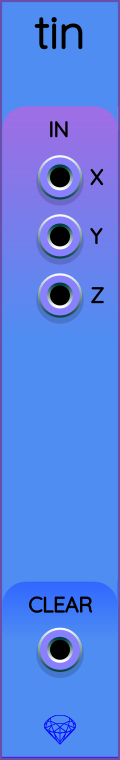
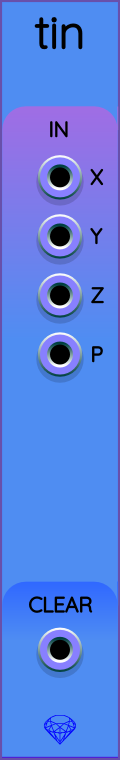
Fixed #33 - Tin: add polyphonic input port
Another step in the 3D Manifesto: provide a polyphonic input
to feed vectors into Tin as a 3-channel (x, y, z) signal.
The individual X, Y, and Z ports still exist and function.
If both kinds of inputs are present, they are added:

    X + P[0]
    Y + P[1]
    Z + P[2]

Changed region(s): [[0.3, 0.4237, 0.7, 0.5145], [0.75, 0.4539, 0.85, 0.4842]]

diff --git a/src/tin.cpp b/src/tin.cpp
@@ -20,6 +20,7 @@ namespace Sapphire
             Y_INPUT,
             Z_INPUT,
             CLEAR_TRIGGER_INPUT,
+            POLY_INPUT,
 
             INPUTS_LEN
         };
@@ -46,6 +47,7 @@ namespace Sapphire
                 configInput(X_INPUT, "X");
                 configInput(Y_INPUT, "Y");
                 configInput(Z_INPUT, "Z");
+                configInput(POLY_INPUT, "Polyphonic (X, Y, Z)");
                 configInput(CLEAR_TRIGGER_INPUT, "Clear display trigger");
                 initialize();
             }
@@ -63,9 +65,19 @@ namespace Sapphire
 
             void process(const ProcessArgs& args) override
             {
+                // We allow input from the monophonic X, Y, and Z inputs.
+                // We also allow input from the polyphonic P input.
+                // To make either/both work, add voltages together.
+
                 float x = inputs[X_INPUT].getVoltageSum();
                 float y = inputs[Y_INPUT].getVoltageSum();
                 float z = inputs[Z_INPUT].getVoltageSum();
+
+                int nc = inputs[POLY_INPUT].channels;
+                if (0 < nc) x += inputs[POLY_INPUT].getVoltage(0);
+                if (1 < nc) y += inputs[POLY_INPUT].getVoltage(1);
+                if (2 < nc) z += inputs[POLY_INPUT].getVoltage(2);
+
                 bool reset = resetTrigger.updateTrigger(inputs[CLEAR_TRIGGER_INPUT].getVoltageSum());
                 communicator.sendVector(x, y, z, reset);
             }
@@ -92,6 +104,7 @@ namespace Sapphire
                 addSapphireInput(X_INPUT, "x_input");
                 addSapphireInput(Y_INPUT, "y_input");
                 addSapphireInput(Z_INPUT, "z_input");
+                addSapphireInput(POLY_INPUT, "p_input");
                 addSapphireInput(CLEAR_TRIGGER_INPUT, "clear_trigger_input");
                 reloadPanel();      // Load the SVG and place all controls at their correct coordinates.
             }

diff --git a/util/make_sapphire_svg.py b/util/make_sapphire_svg.py
@@ -169,9 +169,11 @@ def GenerateTinPanel() -> int:
         pl.append(ControlTextPath(font, 'X',  xPortLabel, yInPortLabel + 0*inputPortDY, 'port_label_x'))
         pl.append(ControlTextPath(font, 'Y',  xPortLabel, yInPortLabel + 1*inputPortDY, 'port_label_y'))
         pl.append(ControlTextPath(font, 'Z',  xPortLabel, yInPortLabel + 2*inputPortDY, 'port_label_z'))
+        pl.append(ControlTextPath(font, 'P',  xPortLabel, yInPortLabel + 3*inputPortDY, 'port_label_p'))
         controls.append(Component('x_input', xmid, inputPortY1 + 0*inputPortDY))
         controls.append(Component('y_input', xmid, inputPortY1 + 1*inputPortDY))
         controls.append(Component('z_input', xmid, inputPortY1 + 2*inputPortDY))
+        controls.append(Component('p_input', xmid, inputPortY1 + 3*inputPortDY))
         controls.append(Component('clear_trigger_input', xmid, inputPortY2))
         pl.append(ControlTextPath(font, 'IN', xInLabel, yInLabel, 'in_label'))
         pl.append(ControlTextPath(font, 'CLEAR', xTriggerPortLabel, yTriggerPortLabel, 'trigger_label'))
